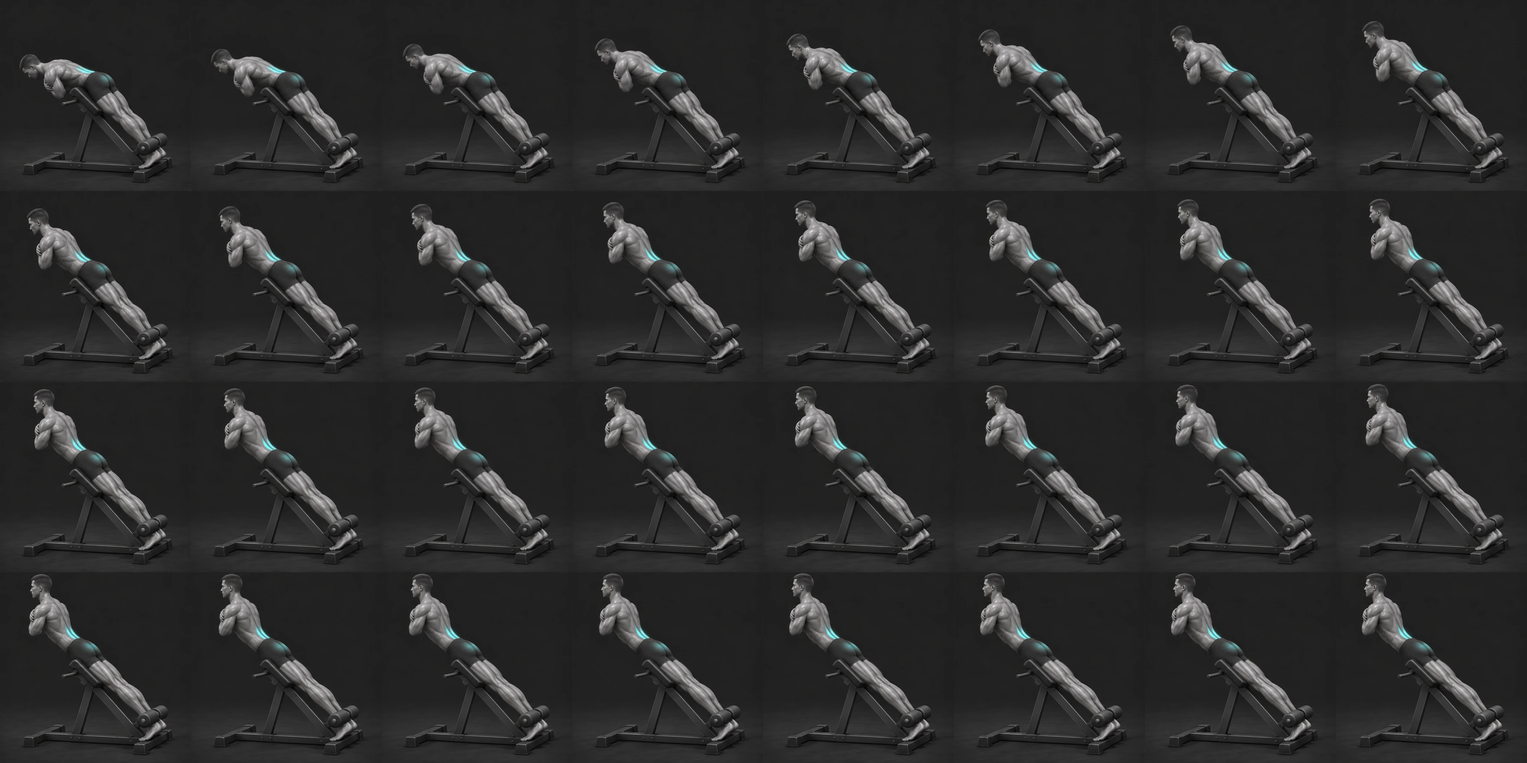
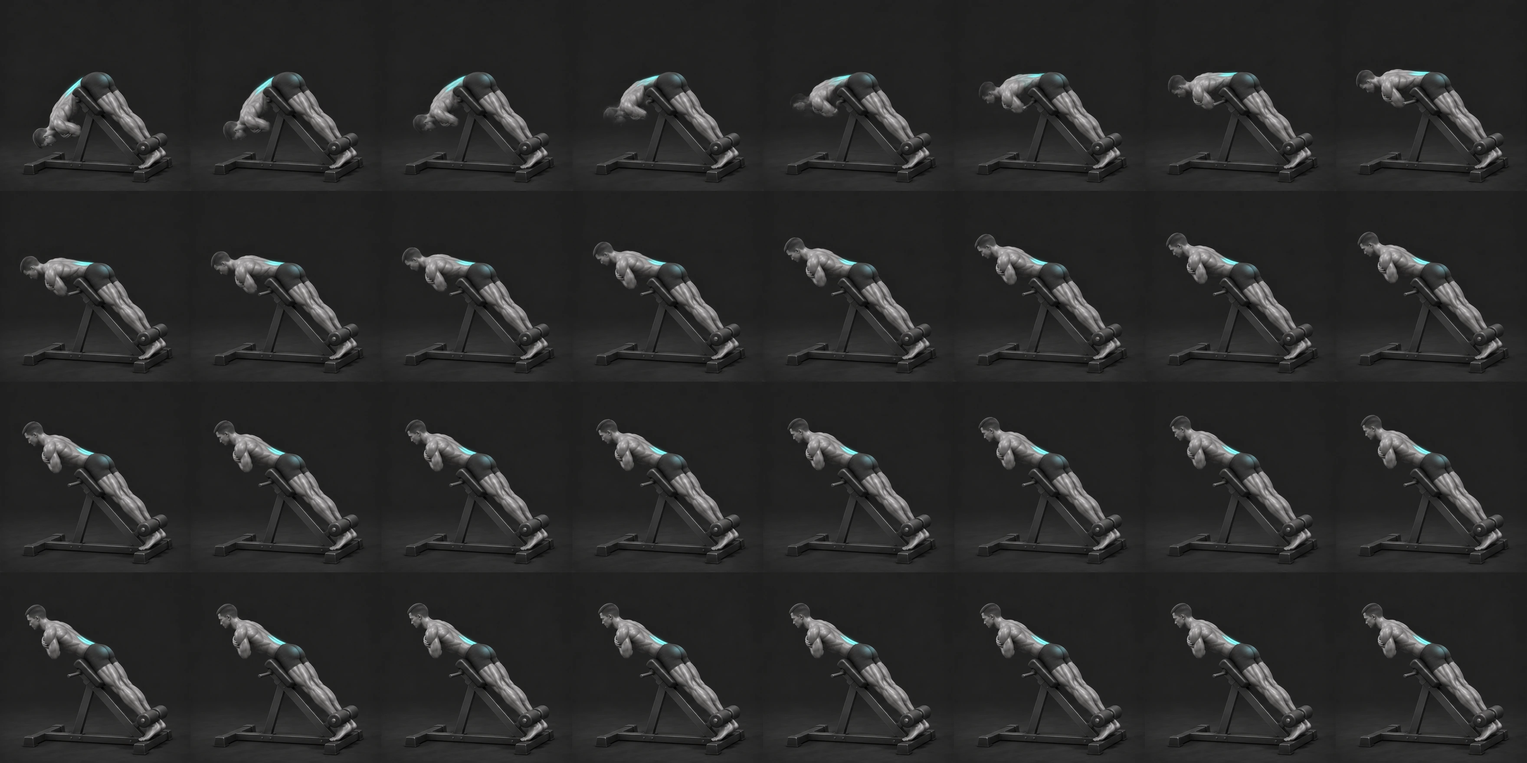
Publish larger back extension motion

diff --git a/index.html b/index.html
@@ -47,7 +47,7 @@ footer{max-width:1286px;margin:auto;padding:15px 18px 45px;color:var(--dim);font
 <main id="content"><section id="routine" class="routine" aria-labelledby="routine-title"><div class="routine-heading"><div><span class="eyebrow">BEGINNER · MON—SAT</span><h2 id="routine-title">월~토 초보자 운동 루틴</h2></div><strong class="routine-dose">모든 운동 15회 × 3세트</strong></div><p>매일 5가지 운동을 순서대로 진행합니다. 운동 이름을 누르면 해당 3D 동작으로 이동합니다.</p><div class="routine-warmup"><strong>먼저 몸풀기</strong><span>가볍게 걷거나 자전거를 5~10분 타고, 첫 기구를 가벼운 무게로 1~2세트 연습하세요. 스쿼트 프레스·바이킹프레스·어시스트친업·벤치 딥스처럼 무겁거나 어려운 운동은 반드시 몸풀기 이후 진행합니다. 몸풀기 세트는 본운동 3세트에 포함하지 않습니다.</span></div><div class="routine-grid"><article class="routine-day"><div class="routine-day-head"><strong>월요일</strong><span>가슴·어깨·삼두 A</span></div><ol><li><button type="button" data-exercise="ex26">인클라인 푸시업</button></li><li><button type="button" data-exercise="ex01">체스트프레스</button></li><li><button type="button" data-exercise="ex13">버티컬 숄더프레스</button></li><li><button type="button" data-exercise="ex04">펙덱 플라이</button></li><li><button type="button" data-exercise="ex31">케이블 로프 푸시다운</button></li></ol></article><article class="routine-day"><div class="routine-day-head"><strong>화요일</strong><span>등·이두 A</span></div><ol><li><button type="button" data-exercise="ex05">렛풀다운</button></li><li><button type="button" data-exercise="ex08">시티드 로우</button></li><li><button type="button" data-exercise="ex34">로만체어 백익스텐션</button></li><li><button type="button" data-exercise="ex28">이지바 컬</button></li><li><button type="button" data-exercise="ex30">덤벨 해머 컬</button></li></ol></article><article class="routine-day"><div class="routine-day-head"><strong>수요일</strong><span>하체 A</span></div><ol><li><button type="button" data-exercise="ex27">맨몸 스쿼트</button></li><li><button type="button" data-exercise="ex20">시티드 레그프레스</button></li><li><button type="button" data-exercise="ex25">라잉 레그컬</button></li><li><button type="button" data-exercise="ex17">힙 어브덕션</button></li><li><button type="button" data-exercise="ex18">힙 어덕션</button></li></ol></article><article class="routine-day"><div class="routine-day-head"><strong>목요일</strong><span>가슴·어깨·삼두 B</span></div><ol><li><button type="button" data-exercise="ex02">버티컬 체스트프레스</button></li><li><button type="button" data-exercise="ex03">디클라인 체스트프레스</button></li><li><button type="button" data-exercise="ex14">바이킹프레스</button></li><li><button type="button" data-exercise="ex33">벤치 딥스</button></li><li><button type="button" data-exercise="ex32">덤벨 시티드 오버헤드 트라이셉스 익스텐션</button></li></ol></article><article class="routine-day"><div class="routine-day-head"><strong>금요일</strong><span>등·이두 B</span></div><ol><li><button type="button" data-exercise="ex07">버티컬 풀다운</button></li><li><button type="button" data-exercise="ex12">티바로우</button></li><li><button type="button" data-exercise="ex10">어시스트친업</button></li><li><button type="button" data-exercise="ex09">버티컬 풀오버</button></li><li><button type="button" data-exercise="ex29">덤벨 컬</button></li></ol></article><article class="routine-day"><div class="routine-day-head"><strong>토요일</strong><span>하체 B</span></div><ol><li><button type="button" data-exercise="ex27">맨몸 스쿼트</button></li><li><button type="button" data-exercise="ex23">스쿼트 프레스</button></li><li><button type="button" data-exercise="ex19">레그 익스텐션</button></li><li><button type="button" data-exercise="ex25">라잉 레그컬</button></li><li><button type="button" data-exercise="ex22">몬스터 글루트</button></li></ol></article></div><p class="routine-foot">일요일은 휴식합니다. 세트 사이 1~2분 쉬고, 15회를 바른 자세로 마칠 수 있는 가벼운 강도부터 시작하세요. 처음부터 3세트가 버거우면 1~2세트로 적응한 뒤 늘리세요. 인클라인 푸시업이 어렵다면 더 높은 안정된 받침대를 사용하세요.</p></section></main>
 <dialog id="detail"><div class="dialog-head"><h2 id="detail-title"></h2><button id="close">닫기 ✕</button></div><canvas id="detail-canvas"></canvas><p id="detail-meta"></p></dialog>
 <footer>영상의 동작을 참고해 만든 시각화입니다. 이미지 장면을 연결한 고정 시점 예시이며 원본 영상은 이 웹페이지에 포함되어 있지 않습니다. 하체 일부와 등 운동 두 건의 표시 이름은 영상을 보고 붙였습니다. 팔 운동 6가지와 로만체어 백익스텐션 등 새로 추가한 운동은 별도 촬영 영상 없이 만든 3D 동작 예시입니다.</footer>
-<script>const exercises=[{"id":"ex00","category":"가슴","name":"1.프리벤치프레스","source":"1.프리벤치프레스.mp4","title":"프리벤치프레스","image":"images-v3/ex00.webp","source_name":"1.프리벤치프레스.mp4","note":"","source_url":"#"},{"id":"ex01","category":"가슴","name":"2.체스트프레스","source":"2.체스트프레스.mp4","title":"체스트프레스","image":"images-v3/ex01.webp","source_name":"2.체스트프레스.mp4","note":"","source_url":"#"},{"id":"ex02","category":"가슴","name":"3.버티컬 체스트프레스","source":"3.버티컬 체스트프레스.mp4","title":"버티컬 체스트프레스","image":"images-v3/ex02.webp","source_name":"3.버티컬 체스트프레스.mp4","note":"양쪽 손잡이가 회색 레버에 연결되어 함께 움직임","source_url":"#"},{"id":"ex03","category":"가슴","name":"4.디클라인 체스트프레스","source":"4.디클라인 체스트프레스.mp4","title":"디클라인 체스트프레스","image":"images-v3/ex03.webp","source_name":"4.디클라인 체스트프레스.mp4","note":"","source_url":"#"},{"id":"ex04","category":"가슴","name":"5.팩댓플라이","source":"5.팩댓플라이.mp4","title":"펙덱 플라이","image":"images-v3/ex04.webp","source_name":"5.팩댓플라이.mp4","note":"팔을 넓게 펼친 뒤 가슴 앞까지 모으기","source_url":"#"},{"id":"ex05","category":"등","name":"렛풀다운","source":"렛풀다운.mp4","title":"렛풀다운","image":"images-v3/ex05.webp","source_name":"렛풀다운.mp4","note":"","source_url":"#"},{"id":"ex06","category":"등","name":"리니어로우","source":"리니어로우.mp4","title":"리니어로우","image":"images-v3/ex06.webp","source_name":"리니어로우.mp4","note":"가슴 대신 엉덩이를 뒤쪽 패드에 붙이기","source_url":"#"},{"id":"ex07","category":"등","name":"버티컬 풀다운","source":"버티컬 풀다운.mp4","title":"버티컬 풀다운","image":"images-v3/ex07.webp","source_name":"버티컬 풀다운.mp4","note":"제공 사진의 독립 레버형 기구 · 손잡이를 위에서 가슴 쪽으로 당기기","source_url":"#"},{"id":"ex08","category":"등","name":"버티컬풀오버","source":"버티컬풀오버.mp4","title":"시티드 로우","image":"images-v3/ex08.webp","source_name":"버티컬풀오버.mp4","note":"영상 내용 기준 명칭","source_url":"#"},{"id":"ex09","category":"등","name":"시티드로우","source":"시티드로우.mp4","title":"버티컬 풀오버","image":"images-v3/ex09.webp","source_name":"시티드로우.mp4","note":"기존 풀오버 동작 유지 · 프레임 형태 정리","source_url":"#"},{"id":"ex10","category":"등","name":"어시스트친업","source":"어시스트친업.mp4","title":"어시스트친업","image":"images-v3/ex10.webp","source_name":"어시스트친업.mp4","note":"","source_url":"#"},{"id":"ex11","category":"등","name":"와이드풀다운","source":"와이드풀다운.mp4","title":"와이드풀다운","image":"images-v3/ex11.webp","source_name":"와이드풀다운.mp4","note":"","source_url":"#"},{"id":"ex12","category":"등","name":"티바로우","source":"티바로우.mp4","title":"티바로우","image":"images-v3/ex12.webp","source_name":"티바로우.mp4","note":"","source_url":"#"},{"id":"ex13","category":"어깨","name":"1.버티컬 숄더프레스","source":"1.버티컬 숄더프레스.mp4","title":"버티컬 숄더프레스","image":"images-v3/ex13.webp","source_name":"1.버티컬 숄더프레스.mp4","note":"","source_url":"#"},{"id":"ex14","category":"어깨","name":"2.바이킹프레스","source":"2.바이킹프레스.mp4","title":"바이킹프레스","image":"images-v3/ex14.webp","source_name":"2.바이킹프레스.mp4","note":"","source_url":"#"},{"id":"ex15","category":"어깨","name":"3.리얼델토이드","source":"3.리얼델토이드.mp4","title":"리어 델토이드","image":"images-v3/ex15.webp","source_name":"3.리얼델토이드.mp4","note":"양손이 몸 앞에서 거의 닿도록 모았다가 양옆으로 벌리기 · 손등은 위로","source_url":"#"},{"id":"ex16","category":"하체","name":"KakaoTalk_20261021_160441697","source":"KakaoTalk_20261021_160441697.mp4","title":"스탠딩 아웃타이","image":"images-v3/ex16.webp","source_name":"KakaoTalk_20261021_160441697.mp4","note":"남성 모델 · 기존 몸통과 손잡이 · 무릎 바깥 패드가 다리와 함께 이동","source_url":"#"},{"id":"ex17","category":"하체","name":"KakaoTalk_20261021_160455563","source":"KakaoTalk_20261021_160455563.mp4","title":"힙 어브덕션","image":"images-v3/ex17.webp","source_name":"KakaoTalk_20261021_160455563.mp4","note":"영상 내용 기준 명칭","source_url":"#"},{"id":"ex18","category":"하체","name":"KakaoTalk_20261021_160501637","source":"KakaoTalk_20261021_160501637.mp4","title":"힙 어덕션","image":"images-v3/ex18.webp","source_name":"KakaoTalk_20261021_160501637.mp4","note":"영상 내용 기준 명칭","source_url":"#"},{"id":"ex19","category":"하체","name":"KakaoTalk_20261021_160507808","source":"KakaoTalk_20261021_160507808.mp4","title":"레그 익스텐션","image":"images-v3/ex19.webp","source_name":"KakaoTalk_20261021_160507808.mp4","note":"영상 내용 기준 명칭","source_url":"#"},{"id":"ex20","category":"하체","name":"KakaoTalk_20261021_160512107","source":"KakaoTalk_20261021_160512107.mp4","title":"시티드 레그프레스","image":"images-v3/ex20.webp","source_name":"KakaoTalk_20261021_160512107.mp4","note":"영상 내용 기준 명칭","source_url":"#"},{"id":"ex21","category":"하체","name":"KakaoTalk_20261021_160516888","source":"KakaoTalk_20261021_160516888.mp4","title":"핵 스쿼트","image":"images-v3/ex21.webp","source_name":"KakaoTalk_20261021_160516888.mp4","note":"영상 내용 기준 명칭","source_url":"#"},{"id":"ex22","category":"하체","name":"KakaoTalk_20261021_160523977","source":"KakaoTalk_20261021_160523977.mp4","title":"몬스터 글루트","image":"images-v3/ex22.webp","source_name":"KakaoTalk_20261021_160523977.mp4","note":"몬스터 글루트 · 높은 위치에서 바깥 아래로 다리 벌리기","source_url":"#"},{"id":"ex23","category":"하체","name":"KakaoTalk_20261021_160539336","source":"KakaoTalk_20261021_160539336.mp4","title":"스쿼트 프레스","image":"images-v3/ex23.webp","source_name":"KakaoTalk_20261021_160539336.mp4","note":"스쿼트 프레스 · 발판을 대각선 위로 밀기","source_url":"#"},{"id":"ex24","category":"하체","name":"KakaoTalk_20261021_160548020","source":"KakaoTalk_20261021_160548020.mp4","title":"45도 레그프레스","image":"images-v3/ex24.webp","source_name":"KakaoTalk_20261021_160548020.mp4","note":"영상 내용 기준 명칭","source_url":"#"},{"id":"ex25","category":"하체","name":"라잉 레그컬","source":"예시 동작","title":"라잉 레그컬","image":"images-v3/ex25.webp","source_name":"예시 동작","source_url":"#","note":"엎드려 누워 발목 패드를 엉덩이 쪽으로 들어 올리기 · 원본 영상 없음"},{"id":"ex26","category":"가슴","name":"인클라인 푸시업","source":"3D 동작 예시","title":"인클라인 푸시업","image":"images-v3/ex26.webp","source_name":"3D 동작 예시","shape":"square","action":"lower","source_url":"#","note":"고정 벤치에 손을 대고 몸을 바닥과 약 45도로 기울이기 · 가슴을 벤치 쪽으로 내리기"},{"id":"ex27","category":"하체","name":"맨몸 스쿼트","source":"3D 동작 예시","title":"맨몸 스쿼트","image":"images-v3/ex27.webp","source_name":"3D 동작 예시","shape":"square","action":"lower","source_url":"#","note":"발바닥을 붙인 채 엉덩이를 뒤로 내리고 무릎은 발끝 방향으로"},{"id":"ex28","category":"팔운동","subgroup":"이두근","name":"이지바 컬","title":"이지바 컬","source":"3D 동작 예시","source_name":"3D 동작 예시","image":"images-v3/ex28.webp","source_url":"#","note":"팔꿈치를 몸 옆에 두고 이지바를 가슴 쪽으로 말아 올리기","shape":"square","action":"lift"},{"id":"ex29","category":"팔운동","subgroup":"이두근","name":"덤벨 컬","title":"덤벨 컬","source":"3D 동작 예시","source_name":"3D 동작 예시","image":"images-v3/ex29.webp","source_url":"#","note":"팔꿈치를 고정하고 손바닥을 위로 돌리며 덤벨 들어 올리기","shape":"square","action":"lift"},{"id":"ex30","category":"팔운동","subgroup":"이두근","name":"덤벨 해머 컬","title":"덤벨 해머 컬","source":"3D 동작 예시","source_name":"3D 동작 예시","image":"images-v3/ex30.webp","source_url":"#","note":"손바닥이 서로 마주 보게 잡고 팔꿈치를 고정한 채 들어 올리기","shape":"square","action":"lift"},{"id":"ex31","category":"팔운동","subgroup":"삼두근","name":"케이블 로프 푸시다운","title":"케이블 로프 푸시다운","source":"3D 동작 예시","source_name":"3D 동작 예시","image":"images-v3/ex31.webp","source_url":"#","note":"팔꿈치를 몸 옆에 두고 로프를 아래로 밀며 끝에서 살짝 벌리기","shape":"square","action":"lift"},{"id":"ex32","category":"팔운동","subgroup":"삼두근","name":"덤벨 시티드 오버헤드 트라이셉스 익스텐션","title":"덤벨 시티드 오버헤드 트라이셉스 익스텐션","source":"3D 동작 예시","source_name":"3D 동작 예시","image":"images-v3/ex32.webp","source_url":"#","note":"앉아서 팔꿈치를 머리 옆에 두고 덤벨을 머리 뒤로 내렸다 올리기","shape":"square","action":"lift"},{"id":"ex33","category":"팔운동","subgroup":"삼두근","name":"벤치 딥스","title":"벤치 딥스","source":"3D 동작 예시","source_name":"3D 동작 예시","image":"images-v3/ex33.webp","source_url":"#","note":"손을 벤치에 고정하고 팔꿈치를 굽혀 몸을 내렸다 밀어 올리기","shape":"square","action":"lower"},{"id":"ex34","category":"등","subgroup":"등","name":"로만체어 백익스텐션","title":"로만체어 백익스텐션","source":"3D 동작 예시","source_name":"3D 동작 예시","image":"images-v3/ex34.webp","source_url":"#","note":"로만체어에 골반과 발목을 고정하고 엉덩관절을 접었다가 몸통을 일직선까지만 올리기 · 허리를 과하게 젖히지 않기","shape":"square","action":"lower"}];</script>
+<script>const exercises=[{"id":"ex00","category":"가슴","name":"1.프리벤치프레스","source":"1.프리벤치프레스.mp4","title":"프리벤치프레스","image":"images-v3/ex00.webp","source_name":"1.프리벤치프레스.mp4","note":"","source_url":"#"},{"id":"ex01","category":"가슴","name":"2.체스트프레스","source":"2.체스트프레스.mp4","title":"체스트프레스","image":"images-v3/ex01.webp","source_name":"2.체스트프레스.mp4","note":"","source_url":"#"},{"id":"ex02","category":"가슴","name":"3.버티컬 체스트프레스","source":"3.버티컬 체스트프레스.mp4","title":"버티컬 체스트프레스","image":"images-v3/ex02.webp","source_name":"3.버티컬 체스트프레스.mp4","note":"양쪽 손잡이가 회색 레버에 연결되어 함께 움직임","source_url":"#"},{"id":"ex03","category":"가슴","name":"4.디클라인 체스트프레스","source":"4.디클라인 체스트프레스.mp4","title":"디클라인 체스트프레스","image":"images-v3/ex03.webp","source_name":"4.디클라인 체스트프레스.mp4","note":"","source_url":"#"},{"id":"ex04","category":"가슴","name":"5.팩댓플라이","source":"5.팩댓플라이.mp4","title":"펙덱 플라이","image":"images-v3/ex04.webp","source_name":"5.팩댓플라이.mp4","note":"팔을 넓게 펼친 뒤 가슴 앞까지 모으기","source_url":"#"},{"id":"ex05","category":"등","name":"렛풀다운","source":"렛풀다운.mp4","title":"렛풀다운","image":"images-v3/ex05.webp","source_name":"렛풀다운.mp4","note":"","source_url":"#"},{"id":"ex06","category":"등","name":"리니어로우","source":"리니어로우.mp4","title":"리니어로우","image":"images-v3/ex06.webp","source_name":"리니어로우.mp4","note":"가슴 대신 엉덩이를 뒤쪽 패드에 붙이기","source_url":"#"},{"id":"ex07","category":"등","name":"버티컬 풀다운","source":"버티컬 풀다운.mp4","title":"버티컬 풀다운","image":"images-v3/ex07.webp","source_name":"버티컬 풀다운.mp4","note":"제공 사진의 독립 레버형 기구 · 손잡이를 위에서 가슴 쪽으로 당기기","source_url":"#"},{"id":"ex08","category":"등","name":"버티컬풀오버","source":"버티컬풀오버.mp4","title":"시티드 로우","image":"images-v3/ex08.webp","source_name":"버티컬풀오버.mp4","note":"영상 내용 기준 명칭","source_url":"#"},{"id":"ex09","category":"등","name":"시티드로우","source":"시티드로우.mp4","title":"버티컬 풀오버","image":"images-v3/ex09.webp","source_name":"시티드로우.mp4","note":"기존 풀오버 동작 유지 · 프레임 형태 정리","source_url":"#"},{"id":"ex10","category":"등","name":"어시스트친업","source":"어시스트친업.mp4","title":"어시스트친업","image":"images-v3/ex10.webp","source_name":"어시스트친업.mp4","note":"","source_url":"#"},{"id":"ex11","category":"등","name":"와이드풀다운","source":"와이드풀다운.mp4","title":"와이드풀다운","image":"images-v3/ex11.webp","source_name":"와이드풀다운.mp4","note":"","source_url":"#"},{"id":"ex12","category":"등","name":"티바로우","source":"티바로우.mp4","title":"티바로우","image":"images-v3/ex12.webp","source_name":"티바로우.mp4","note":"","source_url":"#"},{"id":"ex13","category":"어깨","name":"1.버티컬 숄더프레스","source":"1.버티컬 숄더프레스.mp4","title":"버티컬 숄더프레스","image":"images-v3/ex13.webp","source_name":"1.버티컬 숄더프레스.mp4","note":"","source_url":"#"},{"id":"ex14","category":"어깨","name":"2.바이킹프레스","source":"2.바이킹프레스.mp4","title":"바이킹프레스","image":"images-v3/ex14.webp","source_name":"2.바이킹프레스.mp4","note":"","source_url":"#"},{"id":"ex15","category":"어깨","name":"3.리얼델토이드","source":"3.리얼델토이드.mp4","title":"리어 델토이드","image":"images-v3/ex15.webp","source_name":"3.리얼델토이드.mp4","note":"양손이 몸 앞에서 거의 닿도록 모았다가 양옆으로 벌리기 · 손등은 위로","source_url":"#"},{"id":"ex16","category":"하체","name":"KakaoTalk_20261021_160441697","source":"KakaoTalk_20261021_160441697.mp4","title":"스탠딩 아웃타이","image":"images-v3/ex16.webp","source_name":"KakaoTalk_20261021_160441697.mp4","note":"남성 모델 · 기존 몸통과 손잡이 · 무릎 바깥 패드가 다리와 함께 이동","source_url":"#"},{"id":"ex17","category":"하체","name":"KakaoTalk_20261021_160455563","source":"KakaoTalk_20261021_160455563.mp4","title":"힙 어브덕션","image":"images-v3/ex17.webp","source_name":"KakaoTalk_20261021_160455563.mp4","note":"영상 내용 기준 명칭","source_url":"#"},{"id":"ex18","category":"하체","name":"KakaoTalk_20261021_160501637","source":"KakaoTalk_20261021_160501637.mp4","title":"힙 어덕션","image":"images-v3/ex18.webp","source_name":"KakaoTalk_20261021_160501637.mp4","note":"영상 내용 기준 명칭","source_url":"#"},{"id":"ex19","category":"하체","name":"KakaoTalk_20261021_160507808","source":"KakaoTalk_20261021_160507808.mp4","title":"레그 익스텐션","image":"images-v3/ex19.webp","source_name":"KakaoTalk_20261021_160507808.mp4","note":"영상 내용 기준 명칭","source_url":"#"},{"id":"ex20","category":"하체","name":"KakaoTalk_20261021_160512107","source":"KakaoTalk_20261021_160512107.mp4","title":"시티드 레그프레스","image":"images-v3/ex20.webp","source_name":"KakaoTalk_20261021_160512107.mp4","note":"영상 내용 기준 명칭","source_url":"#"},{"id":"ex21","category":"하체","name":"KakaoTalk_20261021_160516888","source":"KakaoTalk_20261021_160516888.mp4","title":"핵 스쿼트","image":"images-v3/ex21.webp","source_name":"KakaoTalk_20261021_160516888.mp4","note":"영상 내용 기준 명칭","source_url":"#"},{"id":"ex22","category":"하체","name":"KakaoTalk_20261021_160523977","source":"KakaoTalk_20261021_160523977.mp4","title":"몬스터 글루트","image":"images-v3/ex22.webp","source_name":"KakaoTalk_20261021_160523977.mp4","note":"몬스터 글루트 · 높은 위치에서 바깥 아래로 다리 벌리기","source_url":"#"},{"id":"ex23","category":"하체","name":"KakaoTalk_20261021_160539336","source":"KakaoTalk_20261021_160539336.mp4","title":"스쿼트 프레스","image":"images-v3/ex23.webp","source_name":"KakaoTalk_20261021_160539336.mp4","note":"스쿼트 프레스 · 발판을 대각선 위로 밀기","source_url":"#"},{"id":"ex24","category":"하체","name":"KakaoTalk_20261021_160548020","source":"KakaoTalk_20261021_160548020.mp4","title":"45도 레그프레스","image":"images-v3/ex24.webp","source_name":"KakaoTalk_20261021_160548020.mp4","note":"영상 내용 기준 명칭","source_url":"#"},{"id":"ex25","category":"하체","name":"라잉 레그컬","source":"예시 동작","title":"라잉 레그컬","image":"images-v3/ex25.webp","source_name":"예시 동작","source_url":"#","note":"엎드려 누워 발목 패드를 엉덩이 쪽으로 들어 올리기 · 원본 영상 없음"},{"id":"ex26","category":"가슴","name":"인클라인 푸시업","source":"3D 동작 예시","title":"인클라인 푸시업","image":"images-v3/ex26.webp","source_name":"3D 동작 예시","shape":"square","action":"lower","source_url":"#","note":"고정 벤치에 손을 대고 몸을 바닥과 약 45도로 기울이기 · 가슴을 벤치 쪽으로 내리기"},{"id":"ex27","category":"하체","name":"맨몸 스쿼트","source":"3D 동작 예시","title":"맨몸 스쿼트","image":"images-v3/ex27.webp","source_name":"3D 동작 예시","shape":"square","action":"lower","source_url":"#","note":"발바닥을 붙인 채 엉덩이를 뒤로 내리고 무릎은 발끝 방향으로"},{"id":"ex28","category":"팔운동","subgroup":"이두근","name":"이지바 컬","title":"이지바 컬","source":"3D 동작 예시","source_name":"3D 동작 예시","image":"images-v3/ex28.webp","source_url":"#","note":"팔꿈치를 몸 옆에 두고 이지바를 가슴 쪽으로 말아 올리기","shape":"square","action":"lift"},{"id":"ex29","category":"팔운동","subgroup":"이두근","name":"덤벨 컬","title":"덤벨 컬","source":"3D 동작 예시","source_name":"3D 동작 예시","image":"images-v3/ex29.webp","source_url":"#","note":"팔꿈치를 고정하고 손바닥을 위로 돌리며 덤벨 들어 올리기","shape":"square","action":"lift"},{"id":"ex30","category":"팔운동","subgroup":"이두근","name":"덤벨 해머 컬","title":"덤벨 해머 컬","source":"3D 동작 예시","source_name":"3D 동작 예시","image":"images-v3/ex30.webp","source_url":"#","note":"손바닥이 서로 마주 보게 잡고 팔꿈치를 고정한 채 들어 올리기","shape":"square","action":"lift"},{"id":"ex31","category":"팔운동","subgroup":"삼두근","name":"케이블 로프 푸시다운","title":"케이블 로프 푸시다운","source":"3D 동작 예시","source_name":"3D 동작 예시","image":"images-v3/ex31.webp","source_url":"#","note":"팔꿈치를 몸 옆에 두고 로프를 아래로 밀며 끝에서 살짝 벌리기","shape":"square","action":"lift"},{"id":"ex32","category":"팔운동","subgroup":"삼두근","name":"덤벨 시티드 오버헤드 트라이셉스 익스텐션","title":"덤벨 시티드 오버헤드 트라이셉스 익스텐션","source":"3D 동작 예시","source_name":"3D 동작 예시","image":"images-v3/ex32.webp","source_url":"#","note":"앉아서 팔꿈치를 머리 옆에 두고 덤벨을 머리 뒤로 내렸다 올리기","shape":"square","action":"lift"},{"id":"ex33","category":"팔운동","subgroup":"삼두근","name":"벤치 딥스","title":"벤치 딥스","source":"3D 동작 예시","source_name":"3D 동작 예시","image":"images-v3/ex33.webp","source_url":"#","note":"손을 벤치에 고정하고 팔꿈치를 굽혀 몸을 내렸다 밀어 올리기","shape":"square","action":"lower"},{"id":"ex34","category":"등","subgroup":"등","name":"로만체어 백익스텐션","title":"로만체어 백익스텐션","source":"3D 동작 예시","source_name":"3D 동작 예시","image":"images-v3/ex34.webp?v=2","source_url":"#","note":"로만체어에 골반과 발목을 고정하고 등을 곧게 유지한 채 상체를 깊게 숙였다가 몸통이 다리와 일직선이 될 때까지만 올리기","shape":"square","action":"lower"}];</script>
 <script>
 const content=document.querySelector('#content'),search=document.querySelector('#search'),speed=document.querySelector('#speed');
 const state=new Map(),shown=new Set(),sections=new Map(),modal=document.querySelector('#detail');
